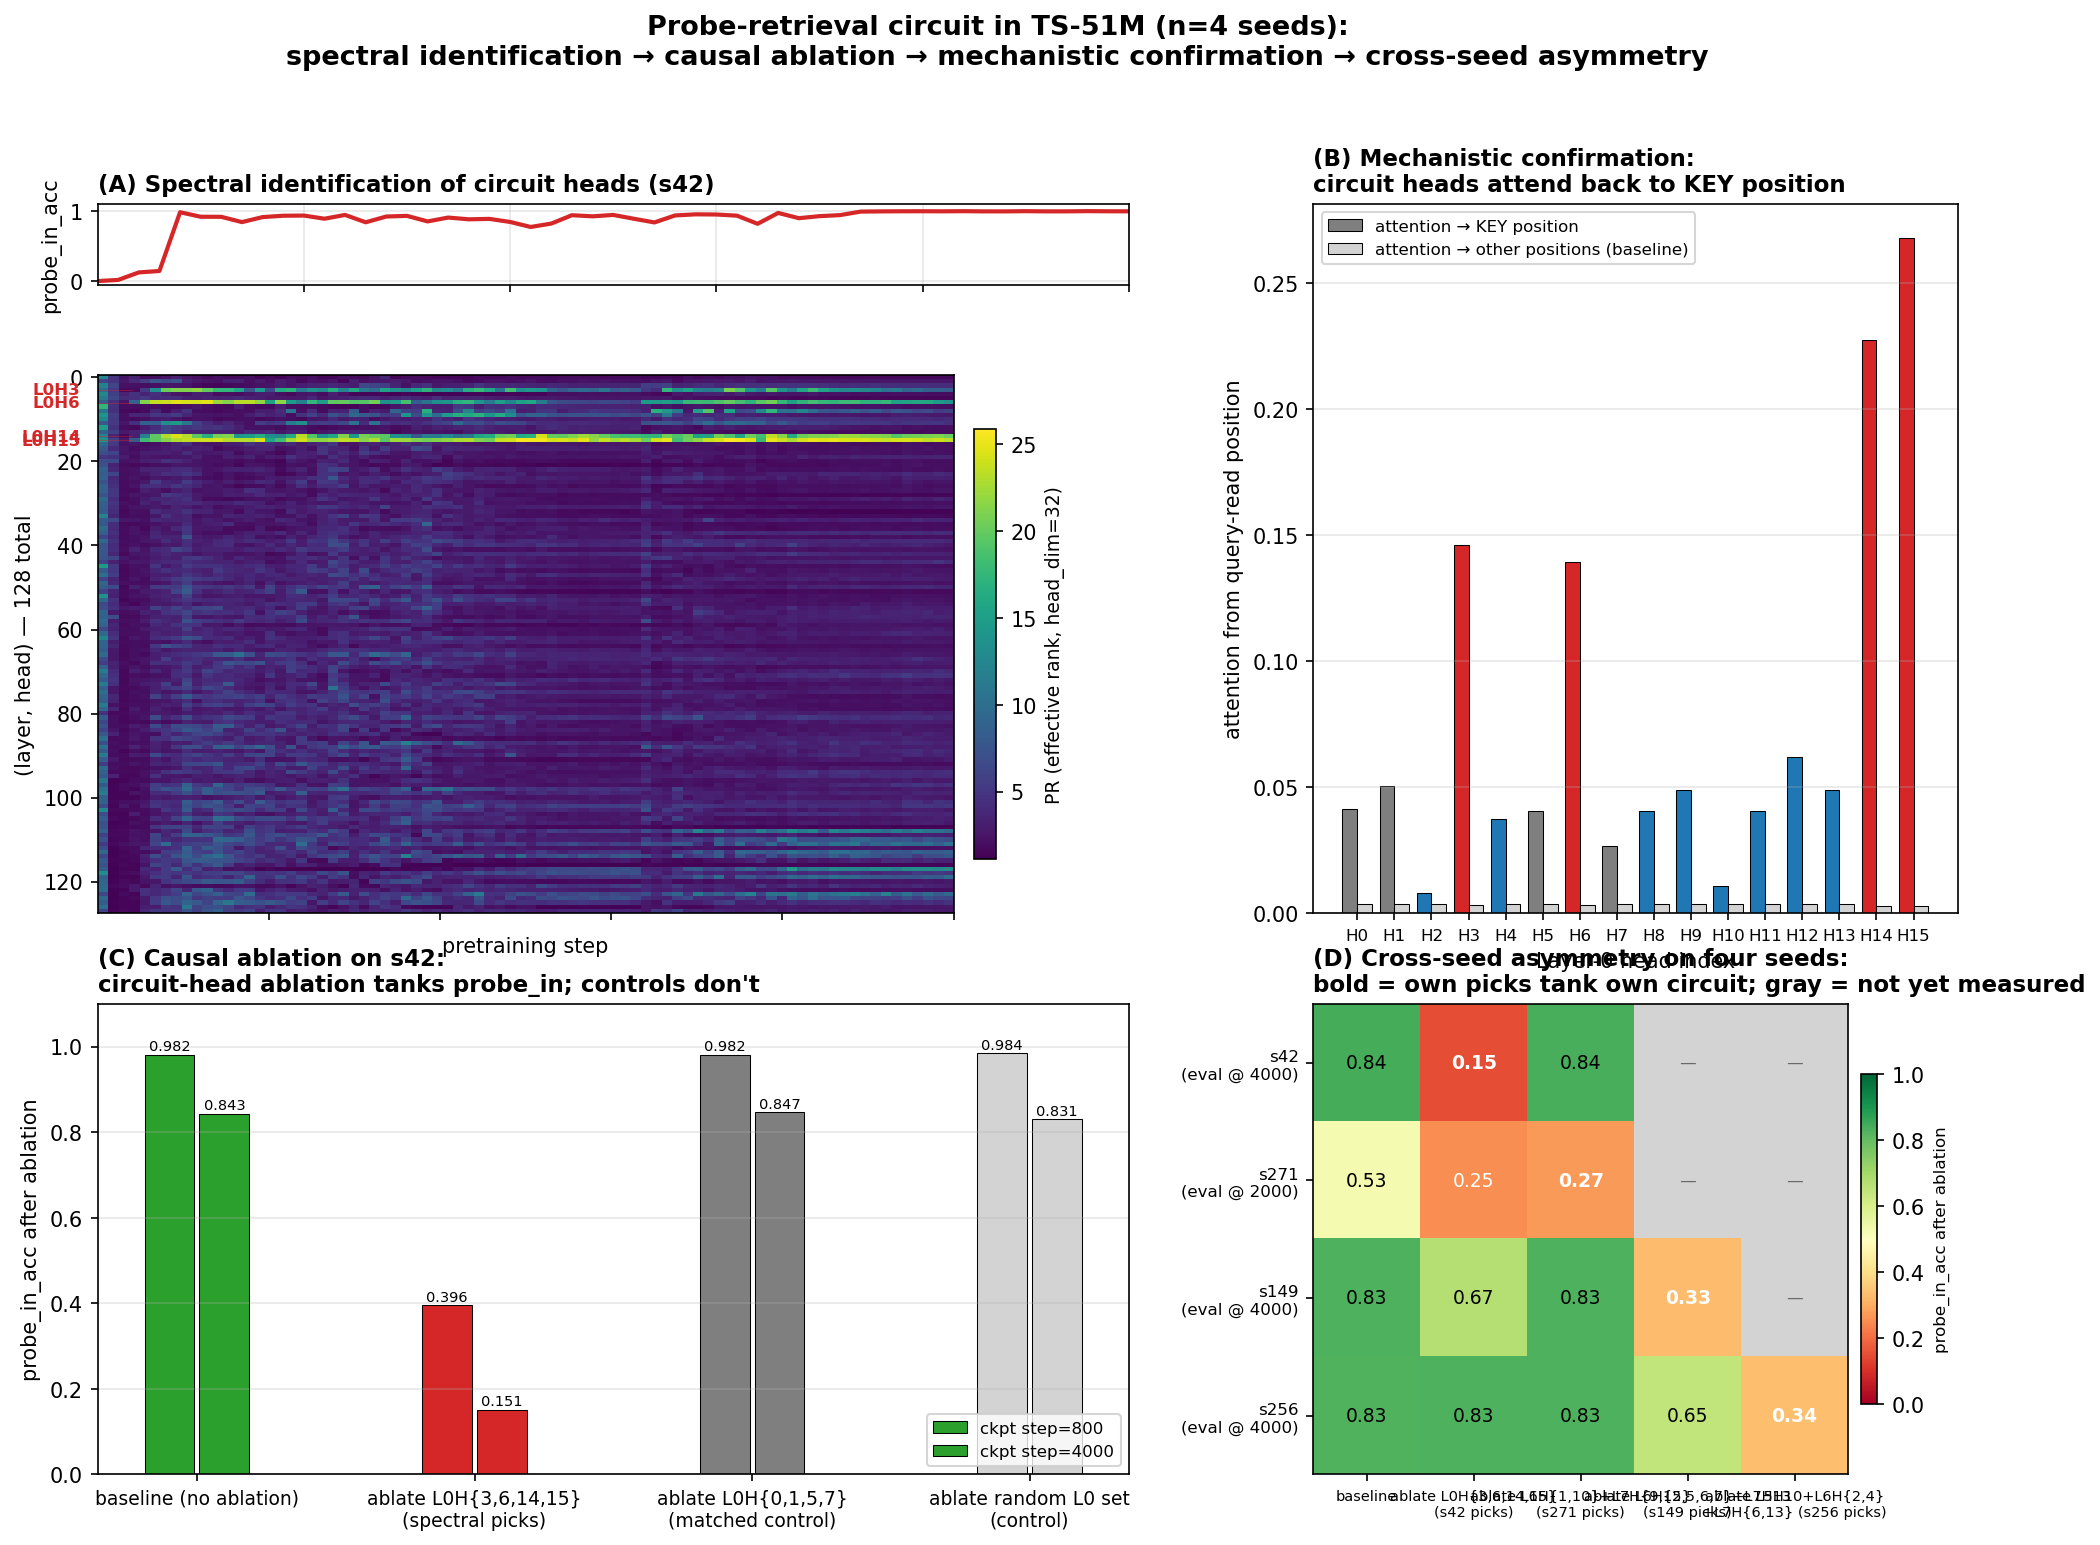
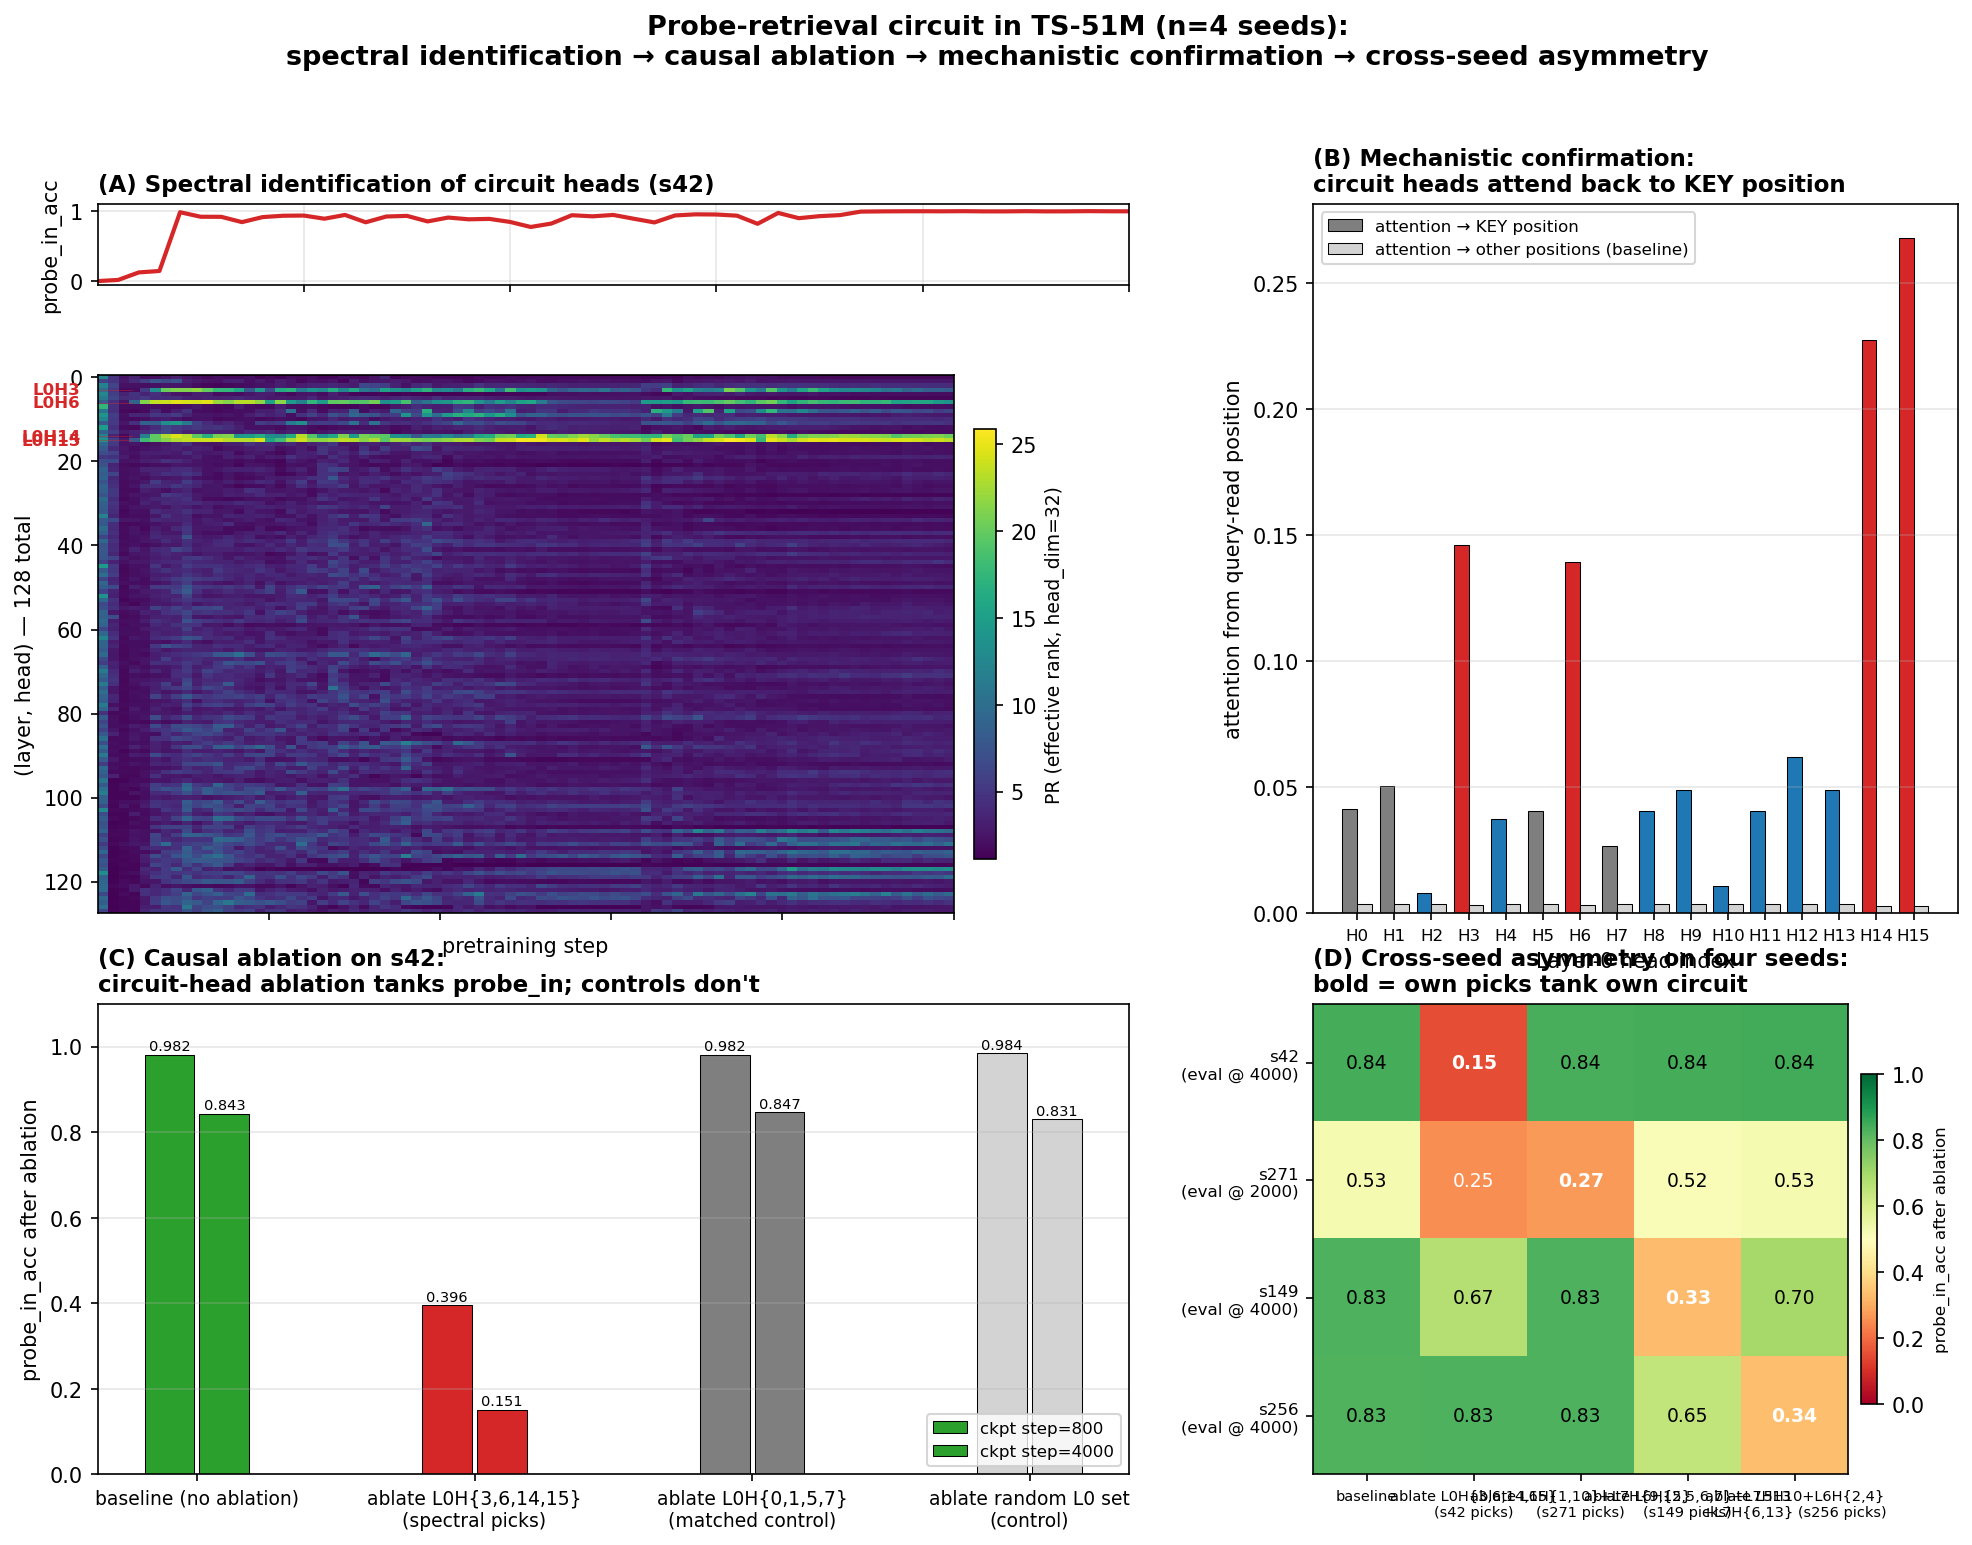
Backfill cross-seed cells: complete 4x5 ablation matrix
- Reran probe_circuit_ablation_multi.py for s42, s271, s149 with all three cross-seed circuit ablations (s42_picks, s271_picks, s149_picks, s256_picks). Previously only s271_picks was tested on s42; only s42_picks was tested on s271.
- Headline figure panel D now shows fully-populated 4x5 cross-seed asymmetry heatmap. No 'not yet measured' cells.
- Key new findings:
  * s42 is unambiguously L0-only (every late-layer ablation leaves baseline)
  * s271's specific late-layer picks have ZERO effect on s149/s256 (no shared heads)
  * s149 and s256 share L6H2+L7H13 — symmetric cross-ablation effect (0.13-0.18 drop in pin)
- README tables updated with complete cross-seed ablation rows

diff --git a/probe_circuit_headline_figure.py b/probe_circuit_headline_figure.py
@@ -152,13 +152,17 @@ def main():
     # ── Panel D (bottom-right): 4-seed cross-seed asymmetry as heatmap ──
     ax_xs = fig.add_subplot(gs[2, 1])
 
+    # Use the v2 ablation JSONs that include all 3 cross-seed conditions
+    ablation_s42_v2 = json.load(open(ANALYSES / "probe_circuit_ablation_s42.json"))
+    ablation_s271_v2 = json.load(open(ANALYSES / "probe_circuit_ablation_s271.json"))
     ablation_s149 = json.load(open(ANALYSES / "probe_circuit_ablation_s149.json"))
     ablation_s256 = json.load(open(ANALYSES / "probe_circuit_ablation_s256.json"))
-    s42_xs_data = {r["name"]: r["probe_in_acc"]
-                    for r in ablation_s42_with_s271["conditions"]
-                    if r["ckpt_step"] == 4000}
+
+    s42_data = {r["name"]: r["probe_in_acc"]
+                 for r in ablation_s42_v2["conditions"]
+                 if r["ckpt_step"] == 4000}
     s271_data = {r["name"]: r["probe_in_acc"]
-                  for r in ablation_s271["conditions"]
+                  for r in ablation_s271_v2["conditions"]
                   if r["ckpt_step"] == 2000}
     s149_data = {r["name"]: r["probe_in_acc"]
                   for r in ablation_s149["conditions"]
@@ -171,24 +175,27 @@ def main():
     # Columns: baseline, ablate_s42, ablate_s271, ablate_s149, ablate_s256
     # Rows: s42, s271, s149, s256
     grid = np.array([
-        [s42_xs_data.get("baseline", NA), NA,
-         s42_xs_data.get("ablate_s271_circuit_L6L7", NA), NA, NA],
+        [s42_data.get("baseline", NA),
+         s42_data.get("ablate_s42_circuit_L0", NA),
+         s42_data.get("ablate_s271_circuit_on_s42", NA),
+         s42_data.get("ablate_s149_circuit_on_s42", NA),
+         s42_data.get("ablate_s256_circuit_on_s42", NA)],
         [s271_data.get("baseline", NA),
          s271_data.get("ablate_s42_circuit_on_s271", NA),
-         s271_data.get("ablate_s271_circuit_L6L7", NA), NA, NA],
+         s271_data.get("ablate_s271_circuit_L6L7", NA),
+         s271_data.get("ablate_s149_circuit_on_s271", NA),
+         s271_data.get("ablate_s256_circuit_on_s271", NA)],
         [s149_data.get("baseline", NA),
          s149_data.get("ablate_s42_circuit_on_s149", NA),
          s149_data.get("ablate_s271_circuit_on_s149", NA),
-         s149_data.get("ablate_s149_circuit_L6L7", NA), NA],
+         s149_data.get("ablate_s149_circuit_L6L7", NA),
+         s149_data.get("ablate_s256_circuit_on_s149", NA)],
         [s256_data.get("baseline", NA),
          s256_data.get("ablate_s42_circuit_on_s256", NA),
          s256_data.get("ablate_s271_circuit_on_s256", NA),
          s256_data.get("ablate_s149_circuit_on_s256", NA),
          s256_data.get("ablate_s256_circuit_L5L6L7", NA)],
     ])
-    # cell (0,1) = s42 own ablation
-    grid[0, 1] = next((r["probe_in_acc"] for r in ablation_s42["conditions"]
-                       if r["ckpt_step"] == 4000 and r["name"] == "ablate_circuit"), NA)
 
     masked = np.ma.array(grid, mask=np.isnan(grid))
     cmap = plt.cm.RdYlGn.copy()
@@ -218,7 +225,7 @@ def main():
                              "s149\n(eval @ 4000)",
                              "s256\n(eval @ 4000)"], fontsize=8)
     ax_xs.set_title("(D) Cross-seed asymmetry on four seeds:\n"
-                     "bold = own picks tank own circuit; gray = not yet measured",
+                     "bold = own picks tank own circuit",
                      fontsize=11, loc="left", weight="bold")
     cbar = plt.colorbar(im, ax=ax_xs, shrink=0.7, pad=0.02)
     cbar.set_label("probe_in_acc after ablation", fontsize=8)

diff --git a/probe_circuit_ablation_multi.py b/probe_circuit_ablation_multi.py
@@ -125,6 +125,8 @@ def main():
             ("ablate_L6_pair_only",            {6: [1, 10]}),
             ("ablate_L7_pair_only",            {7: [9, 15]}),
             ("ablate_s42_circuit_on_s271",     s42_circuit),
+            ("ablate_s149_circuit_on_s271",    s149_circuit),
+            ("ablate_s256_circuit_on_s271",    s256_circuit),
             ("ablate_matched_random_L6L7",     {6: random_L6, 7: random_L7}),
             ("ablate_full_L6L7",               {6: list(range(n_head)),
                                                 7: list(range(n_head))}),
@@ -145,6 +147,7 @@ def main():
             ("ablate_L6_quad_only",            {6: [2, 5, 6, 7]}),
             ("ablate_s42_circuit_on_s149",     s42_circuit),
             ("ablate_s271_circuit_on_s149",    s271_circuit),
+            ("ablate_s256_circuit_on_s149",    s256_circuit),
             ("ablate_matched_random_L6L7",     {6: random_L6, 7: random_L7}),
             ("ablate_full_L6L7",               {6: list(range(n_head)),
                                                 7: list(range(n_head))}),
@@ -163,6 +166,7 @@ def main():
             ("ablate_L0H15",                   {0: [15]}),
             ("ablate_s271_circuit_on_s42",     s271_circuit),
             ("ablate_s149_circuit_on_s42",     s149_circuit),
+            ("ablate_s256_circuit_on_s42",     s256_circuit),
             ("ablate_matched_random_L0",       {0: random_L0}),
             ("ablate_full_L0",                 {0: list(range(n_head))}),
             ("ablate_full_L6L7",               {6: list(range(n_head)),

diff --git a/README.md b/README.md
@@ -86,18 +86,24 @@ Zero out the spectrally-identified heads on a fully-trained checkpoint and measu
 |---|---:|
 | baseline | **0.843** |
 | ablate s42 spectral picks: L0H{3, 6, 14, 15} | **0.151** ← circuit destroyed |
-| ablate s271 spectral picks: L6H{1,10}+L7H{9,15} | 0.838 ← s271's heads do nothing here |
-| ablate matched-size L0 control: L0H{0, 1, 5, 7} | 0.847 |
+| ablate s271 spectral picks: L6H{1,10}+L7H{9,15} | 0.838 ← no effect |
+| ablate s149 spectral picks: L6H{2,5,6,7}+L7H13 | 0.840 ← no effect |
+| ablate s256 spectral picks: L5H10+L6H{2,4}+L7H{6,13} | 0.844 ← no effect |
+| ablate matched-size L0 control: L0H{0, 1, 5, 7} | 0.831 |
 | ablate ALL 32 heads in L6+L7 | 0.826 |
 | ablate all 16 L0 heads | 0.129 |
+
+s42 is **L0-only**: every late-layer ablation (s271, s149, s256 picks; even all 32 L6+L7 heads) leaves probe accuracy at baseline; only L0 ablations matter.
 
 **s271 ablations (step 2000, baseline pin 0.526):**
 
 | Condition | probe_in_acc |
 |---|---:|
 | baseline | 0.526 |
-| ablate s271 spectral picks (L6+L7) | 0.273 |
-| ablate s42 spectral picks (L0H{3,6,14,15}) | 0.251 ← s42's L0 picks ALSO matter on s271 |
+| ablate s271 spectral picks (L6+L7) | **0.273** ← own circuit destroyed |
+| ablate s42 spectral picks (L0H{3,6,14,15}) | **0.251** ← s42's L0 picks ALSO matter |
+| ablate s149 spectral picks: L6H{2,5,6,7}+L7H13 | 0.515 ← no effect (no shared heads) |
+| ablate s256 spectral picks: L5H10+L6H{2,4}+L7H{6,13} | 0.525 ← no effect (no shared heads) |
 | matched-size random L6+L7 control | 0.518 |
 
 **s149 ablations (step 4000, baseline pin 0.832):**
@@ -106,9 +112,9 @@ Zero out the spectrally-identified heads on a fully-trained checkpoint and measu
 |---|---:|
 | baseline | 0.832 |
 | ablate s149 spectral picks (L6H{2,5,6,7} + L7H13) | **0.329** ← circuit destroyed |
-| ablate s42 spectral picks: L0H{3, 6, 14, 15} | 0.668 ← s42's L0 picks ALSO matter on s149 |
-| ablate s271 spectral picks: L6H{1,10}+L7H{9,15} | 0.830 ← s271's specific picks do nothing |
-| ablate s256 spectral picks: L5H10+L6H{2,4}+L7H{6,13} | (pending: requires rerun with updated condition set) |
+| ablate s42 spectral picks: L0H{3, 6, 14, 15} | 0.668 ← s42's L0 picks ALSO matter |
+| ablate s271 spectral picks: L6H{1,10}+L7H{9,15} | 0.830 ← no effect (no shared heads) |
+| ablate s256 spectral picks: L5H10+L6H{2,4}+L7H{6,13} | **0.698** ← partial effect via shared L6H2+L7H13 |
 | matched-size random L6+L7 control | 0.816 |
 | ablate ALL 32 heads in L6+L7 | 0.150 |
 
@@ -203,7 +209,7 @@ Pretraining configs used (all four seeds identical except RNG):
 
 Full launch commands in the corresponding `STATUS.md` files in mini_gpt.
 
-See `RESULTS.md` for the full per-head and per-condition tables (note: results.md is at n=2 detail; the n=4 tables are in this README).
+See `RESULTS.md` for additional detail (note: results.md predates the n=4 update; the most current tables are in this README).
 
 ## Open questions
 
